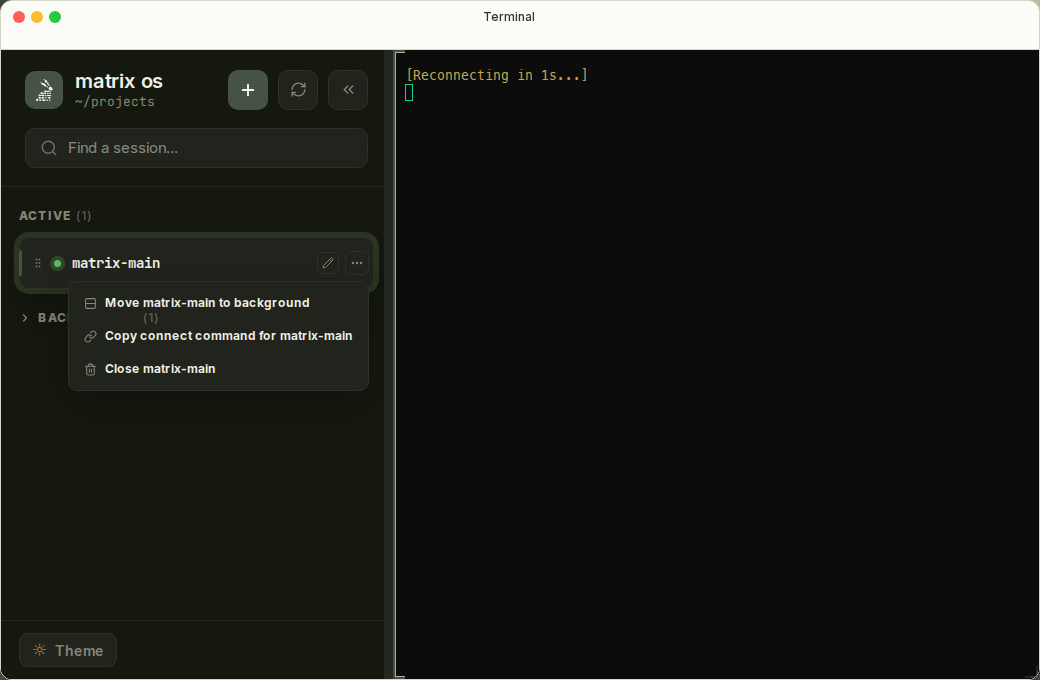
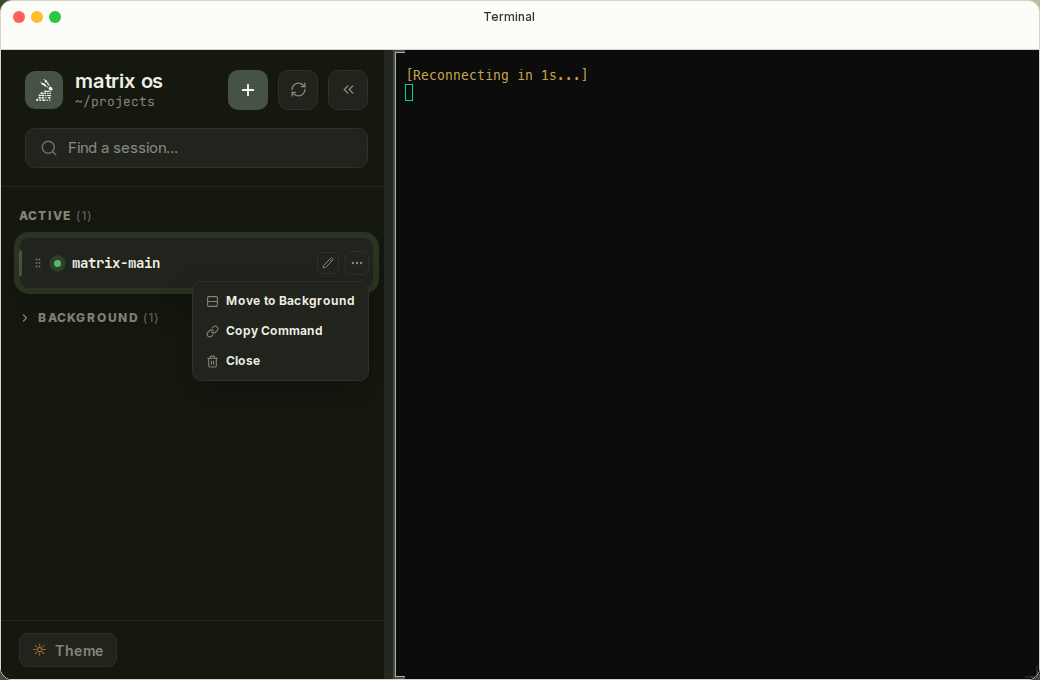
fix(shell): compact terminal row action menu

Changed region(s): [[0.0615, 0.4324, 0.3385, 0.5559]]

diff --git a/tests/shell/terminal-app-component.test.tsx b/tests/shell/terminal-app-component.test.tsx
@@ -698,7 +698,7 @@ describe("TerminalApp", () => {
     });
 
     expect(screen.queryByText("matrix shell connect")).toBeNull();
-    expect(screen.queryByRole("button", { name: "Copy connect command for matrix-main" })).toBeNull();
+    expect(screen.queryByRole("button", { name: "Copy Command" })).toBeNull();
     expect(screen.queryByRole("button", { name: "Copy Matrix shell connect command for matrix-main" })).toBeNull();
     const row = screen.getByRole("button", { name: "Open matrix-main" }).closest(".group");
     expect(row).toBeTruthy();
@@ -714,13 +714,13 @@ describe("TerminalApp", () => {
     expect(actions.style.maxHeight).toBe("");
     expect(within(actions).getByRole("button", { name: "Rename matrix-main" })).toBeTruthy();
     expect(within(actions).getByRole("button", { name: "More actions for matrix-main" })).toBeTruthy();
-    expect(within(actions).queryByRole("button", { name: "Copy connect command for matrix-main" })).toBeNull();
-    expect(within(actions).queryByRole("button", { name: "Close matrix-main" })).toBeNull();
+    expect(within(actions).queryByRole("button", { name: "Copy Command" })).toBeNull();
+    expect(within(actions).queryByRole("button", { name: "Close" })).toBeNull();
 
     let menu = await openSessionContextMenu("main");
-    const moveButton = within(menu).getByRole("menuitem", { name: "Move matrix-main to background" });
+    const moveButton = within(menu).getByRole("menuitem", { name: "Move to Background" });
     expect(moveButton).toBeTruthy();
-    expect(within(menu).getByRole("menuitem", { name: "Close matrix-main" })).toBeTruthy();
+    expect(within(menu).getByRole("menuitem", { name: "Close" })).toBeTruthy();
     expect(document.activeElement).toBe(moveButton);
 
     fireEvent.keyDown(document, { key: "Escape" });
@@ -728,7 +728,7 @@ describe("TerminalApp", () => {
     expect(document.activeElement).toBe(within(actions).getByRole("button", { name: "More actions for matrix-main" }));
 
     menu = await openSessionContextMenu("main");
-    const copyButton = within(menu).getByRole("menuitem", { name: "Copy connect command for matrix-main" });
+    const copyButton = within(menu).getByRole("menuitem", { name: "Copy Command" });
     await act(async () => {
       fireEvent.click(copyButton);
       await Promise.resolve();
@@ -789,7 +789,7 @@ describe("TerminalApp", () => {
     await openSessionContextMenu("main");
 
     await act(async () => {
-      fireEvent.click(screen.getByRole("menuitem", { name: "Copy connect command for matrix-main" }));
+      fireEvent.click(screen.getByRole("menuitem", { name: "Copy Command" }));
       await Promise.resolve();
     });
 
@@ -841,7 +841,7 @@ describe("TerminalApp", () => {
     await openSessionContextMenu("main");
 
     await act(async () => {
-      fireEvent.click(screen.getByRole("menuitem", { name: "Copy connect command for matrix-main" }));
+      fireEvent.click(screen.getByRole("menuitem", { name: "Copy Command" }));
       await Promise.resolve();
     });
 
@@ -1220,7 +1220,7 @@ describe("TerminalApp", () => {
 
     let menu = await openSessionContextMenu("claude-review", "claude-review");
     await act(async () => {
-      fireEvent.click(within(menu).getByRole("menuitem", { name: "Close claude-review" }));
+      fireEvent.click(within(menu).getByRole("menuitem", { name: "Close" }));
       await Promise.resolve();
     });
 
@@ -1242,7 +1242,7 @@ describe("TerminalApp", () => {
 
     menu = await openSessionContextMenu("claude-review", "claude-review");
     await act(async () => {
-      fireEvent.click(within(menu).getByRole("menuitem", { name: "Close claude-review" }));
+      fireEvent.click(within(menu).getByRole("menuitem", { name: "Close" }));
       await Promise.resolve();
     });
     await act(async () => {
@@ -1291,7 +1291,7 @@ describe("TerminalApp", () => {
 
     const menu = await openSessionContextMenu("main");
     await act(async () => {
-      fireEvent.click(within(menu).getByRole("menuitem", { name: "Close matrix-main" }));
+      fireEvent.click(within(menu).getByRole("menuitem", { name: "Close" }));
       await Promise.resolve();
     });
 
@@ -1345,12 +1345,12 @@ describe("TerminalApp", () => {
 
     let menu = await openSessionContextMenu("main");
     await act(async () => {
-      fireEvent.click(within(menu).getByRole("menuitem", { name: "Move matrix-main to background" }));
+      fireEvent.click(within(menu).getByRole("menuitem", { name: "Move to Background" }));
       await Promise.resolve();
     });
     menu = await openSessionContextMenu("docs", "docs");
     await act(async () => {
-      fireEvent.click(within(menu).getByRole("menuitem", { name: "Make docs active" }));
+      fireEvent.click(within(menu).getByRole("menuitem", { name: "Make Active" }));
       await Promise.resolve();
     });
 
@@ -1539,11 +1539,11 @@ describe("TerminalApp", () => {
     });
     const menu = await openSessionContextMenu("main");
     await act(async () => {
-      fireEvent.click(within(menu).getByRole("menuitem", { name: "Move matrix-main to background" }));
+      fireEvent.click(within(menu).getByRole("menuitem", { name: "Move to Background" }));
       await Promise.resolve();
     });
 
-    expect(within(await openSessionContextMenu("main")).getByRole("menuitem", { name: "Make matrix-main active" })).toBeTruthy();
+    expect(within(await openSessionContextMenu("main")).getByRole("menuitem", { name: "Make Active" })).toBeTruthy();
     expect(resolveMarkSeen).toBeDefined();
 
     await act(async () => {
@@ -1551,7 +1551,7 @@ describe("TerminalApp", () => {
       await Promise.resolve();
     });
 
-    expect(within(await openSessionContextMenu("main")).getByRole("menuitem", { name: "Make matrix-main active" })).toBeTruthy();
+    expect(within(await openSessionContextMenu("main")).getByRole("menuitem", { name: "Make Active" })).toBeTruthy();
   });
 
   it("keeps a reopened background shell active when the placement patch fails after attach", async () => {
@@ -1590,15 +1590,15 @@ describe("TerminalApp", () => {
 
     const docsMenu = await openSessionContextMenu("docs", "docs");
     await act(async () => {
-      fireEvent.click(within(docsMenu).getByRole("menuitem", { name: "Make docs active" }));
+      fireEvent.click(within(docsMenu).getByRole("menuitem", { name: "Make Active" }));
       await Promise.resolve();
     });
 
     expect(paneGridSpy.mock.lastCall?.[0]).toMatchObject({
       paneTree: { sessionId: "docs" },
     });
-    expect(within(await openSessionContextMenu("docs", "docs")).getByRole("menuitem", { name: "Move docs to background" })).toBeTruthy();
-    expect(screen.queryByRole("button", { name: "Make docs active" })).toBeNull();
+    expect(within(await openSessionContextMenu("docs", "docs")).getByRole("menuitem", { name: "Move to Background" })).toBeTruthy();
+    expect(screen.queryByRole("button", { name: "Make Active" })).toBeNull();
     expect(screen.queryByText("Failed to update session")).toBeNull();
     expect(screen.queryByText("Could not update session")).toBeNull();
     expect(vi.mocked(global.fetch).mock.calls.filter(([input, init]) => (
@@ -1648,8 +1648,8 @@ describe("TerminalApp", () => {
     expect(screen.getByText("matrix-os")).toBeTruthy();
     expect(screen.getByPlaceholderText("Find a session...")).toBeTruthy();
     expect(screen.getByRole("button", { name: "Open matrix-main" })).toBeTruthy();
-    expect(screen.queryByRole("button", { name: "Move matrix-main to background" })).toBeNull();
-    expect(within(await openSessionContextMenu("main")).getByRole("menuitem", { name: "Move matrix-main to background" })).toBeTruthy();
+    expect(screen.queryByRole("button", { name: "Move to Background" })).toBeNull();
+    expect(within(await openSessionContextMenu("main")).getByRole("menuitem", { name: "Move to Background" })).toBeTruthy();
     expect(screen.queryByText("Zellij")).toBeNull();
   });
 
@@ -1890,8 +1890,16 @@ describe("TerminalApp", () => {
     const moreButton = within(actions).getByRole("button", { name: "More actions for matrix-main" });
     expect(moreButton.style.width).toBe("24px");
     expect(moreButton.style.height).toBe("24px");
-    expect(screen.queryByRole("button", { name: "Move matrix-main to background" })).toBeNull();
-    expect(within(await openSessionContextMenu("main")).getByRole("menuitem", { name: "Move matrix-main to background" })).toBeTruthy();
+    expect(screen.queryByRole("button", { name: "Move to Background" })).toBeNull();
+    const menu = await openSessionContextMenu("main");
+    expect(menu.style.minWidth).toBe("152px");
+    expect(menu.style.padding).toBe("5px");
+    expect(within(menu).getByRole("menuitem", { name: "Move to Background" }).style.height).toBe("28px");
+    expect(within(menu).getByRole("menuitem", { name: "Copy Command" })).toBeTruthy();
+    expect(within(menu).getByRole("menuitem", { name: "Close" })).toBeTruthy();
+    expect(screen.queryByRole("menuitem", { name: "Move matrix-main to background" })).toBeNull();
+    expect(screen.queryByRole("menuitem", { name: "Copy connect command for matrix-main" })).toBeNull();
+    expect(screen.queryByRole("menuitem", { name: "Close matrix-main" })).toBeNull();
   });
 
   it("lets desktop users resize the terminal sessions drawer", async () => {
@@ -2267,7 +2275,7 @@ describe("TerminalApp", () => {
     await openSessionContextMenu("main");
 
     await act(async () => {
-      fireEvent.click(screen.getByRole("menuitem", { name: "Copy connect command for matrix-main" }));
+      fireEvent.click(screen.getByRole("menuitem", { name: "Copy Command" }));
       await Promise.resolve();
     });
 
@@ -2757,7 +2765,7 @@ describe("TerminalApp", () => {
     const mainActions = screen.getByTestId("terminal-session-actions-main");
     expect(within(mainActions).getByRole("button", { name: "Rename matrix-main" })).toBeTruthy();
     expect(within(mainActions).getByRole("button", { name: "More actions for matrix-main" }).closest(".group")).toBe(mainCard);
-    expect(screen.queryByRole("button", { name: "Move matrix-main to background" })).toBeNull();
+    expect(screen.queryByRole("button", { name: "Move to Background" })).toBeNull();
 
     await act(async () => {
       fireEvent.click(screen.getByRole("button", { name: /open bench/i }));
@@ -2783,7 +2791,7 @@ describe("TerminalApp", () => {
     const closeMenu = await openSessionContextMenu("main");
 
     await act(async () => {
-      const deleteButton = within(closeMenu).getByRole("menuitem", { name: /close matrix-main/i });
+      const deleteButton = within(closeMenu).getByRole("menuitem", { name: "Close" });
       fireEvent.click(deleteButton);
       fireEvent.click(deleteButton);
       await Promise.resolve();
@@ -2863,7 +2871,7 @@ describe("TerminalApp", () => {
     const benchMenu = await openSessionContextMenu("bench", "bench");
 
     await act(async () => {
-      fireEvent.click(within(benchMenu).getByRole("menuitem", { name: /close bench/i }));
+      fireEvent.click(within(benchMenu).getByRole("menuitem", { name: "Close" }));
       await Promise.resolve();
     });
     await act(async () => {
@@ -3040,7 +3048,7 @@ describe("TerminalApp", () => {
       String(input).endsWith("/api/terminal/sessions") && init?.method !== "POST"
     )).length;
     expect(shellListCallsAfterWait).toBeGreaterThan(shellListCallsBeforeWait);
-    expect(screen.queryByRole("button", { name: "Copy connect command for matrix-main" })).toBeNull();
+    expect(screen.queryByRole("button", { name: "Copy Command" })).toBeNull();
   });
 
   it("does not clobber a concurrent Shells refresh when delete rollback runs", async () => {
@@ -3084,7 +3092,7 @@ describe("TerminalApp", () => {
     const menu = await openSessionContextMenu("main");
 
     await act(async () => {
-      fireEvent.click(within(menu).getByRole("menuitem", { name: /close matrix-main/i }));
+      fireEvent.click(within(menu).getByRole("menuitem", { name: "Close" }));
       await Promise.resolve();
     });
     expect(screen.getByRole("dialog", { name: "Close this session?" })).toBeTruthy();
@@ -3094,7 +3102,7 @@ describe("TerminalApp", () => {
       fireEvent.click(within(screen.getByRole("dialog", { name: "Close this session?" })).getByRole("button", { name: "Delete" }));
       await Promise.resolve();
     });
-    expect(screen.queryByRole("button", { name: "Copy connect command for matrix-main" })).toBeNull();
+    expect(screen.queryByRole("button", { name: "Copy Command" })).toBeNull();
 
     await act(async () => {
       shellList = [{ name: "bench", status: "active" }];

diff --git a/shell/src/components/terminal/TerminalApp.tsx b/shell/src/components/terminal/TerminalApp.tsx
@@ -804,9 +804,9 @@ const SESSION_CONTEXT_MENU_STYLE: CSSProperties = {
   boxShadow: "0 14px 34px var(--terminal-drawer-card-shadow)",
   display: "flex",
   flexDirection: "column",
-  gap: 3,
-  minWidth: 208,
-  padding: 6,
+  gap: 2,
+  minWidth: 152,
+  padding: 5,
   position: "absolute",
   right: 0,
   top: "calc(100% + 6px)",
@@ -823,9 +823,9 @@ const SESSION_CONTEXT_MENU_ITEM_STYLE: CSSProperties = {
   fontFamily: "Inter, system-ui, sans-serif",
   fontSize: 12,
   fontWeight: 650,
-  gap: 8,
-  height: 30,
-  padding: "0 9px",
+  gap: 7,
+  height: 28,
+  padding: "0 8px",
   textAlign: "left",
   whiteSpace: "nowrap",
   width: "100%",
@@ -5734,7 +5734,7 @@ function ShellCard({
   const showRenameControl = actionsVisible && !renaming;
   const showDragHandle = (actionsVisible || dragging) && !renaming && !deleting;
   const renameControlLabel = `Rename ${displayName}`;
-  const toggleMenuLabel = foreground ? `Move ${displayName} to background` : `Make ${displayName} active`;
+  const toggleMenuLabel = foreground ? "Move to Background" : "Make Active";
 
   useEffect(() => () => {
     if (copiedTimerRef.current !== null) {
@@ -6139,7 +6139,7 @@ function ShellCard({
                       <Rows2Icon size={13} strokeWidth={2} />
                     </SessionContextMenuItem>
                     <SessionContextMenuItem
-                      label={`Copy connect command for ${displayName}`}
+                      label="Copy Command"
                       onClick={() => {
                         void copyAttachCommand();
                         closeContextMenuWithFocusReturn();
@@ -6148,7 +6148,7 @@ function ShellCard({
                       <LinkIcon size={13} strokeWidth={2} />
                     </SessionContextMenuItem>
                     <SessionContextMenuItem
-                      label={`${deleting ? "Deleting" : "Close"} ${displayName}`}
+                      label={deleting ? "Deleting" : "Close"}
                       disabled={deleting}
                       onClick={() => {
                         if (deleting) return;